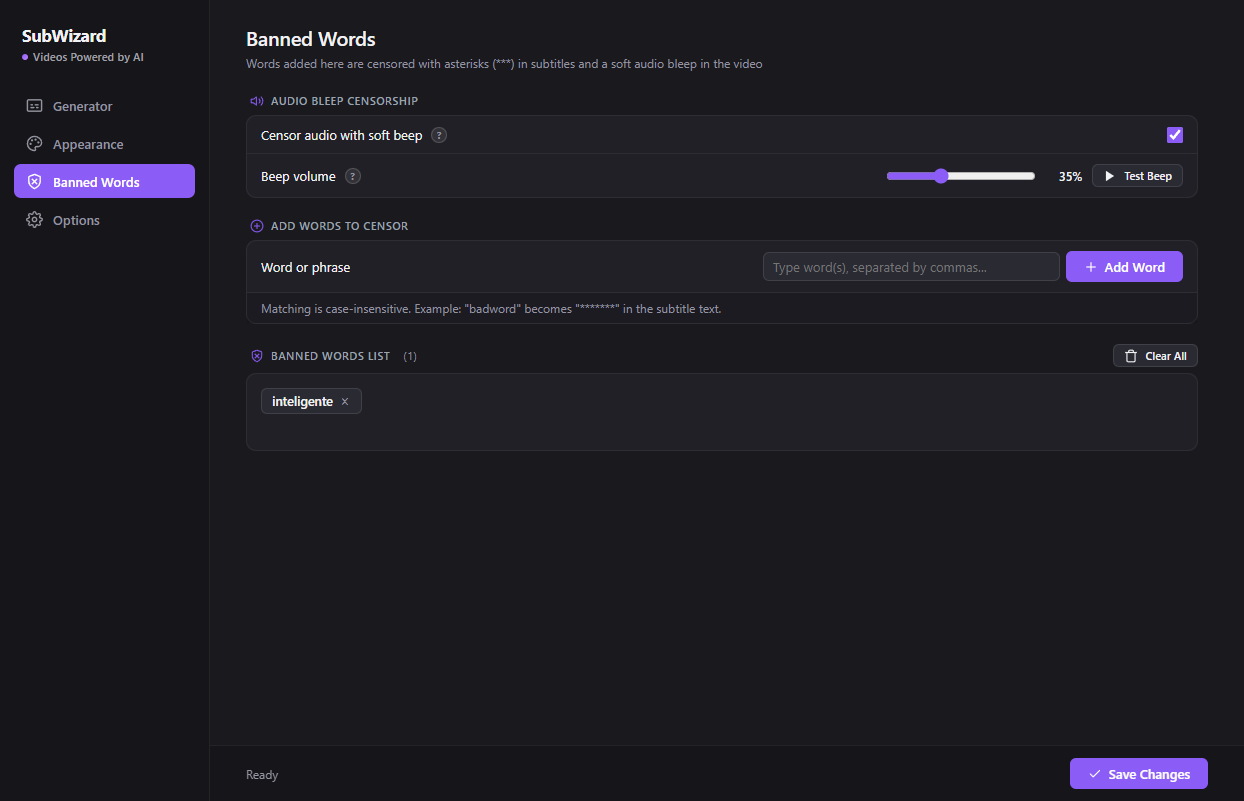
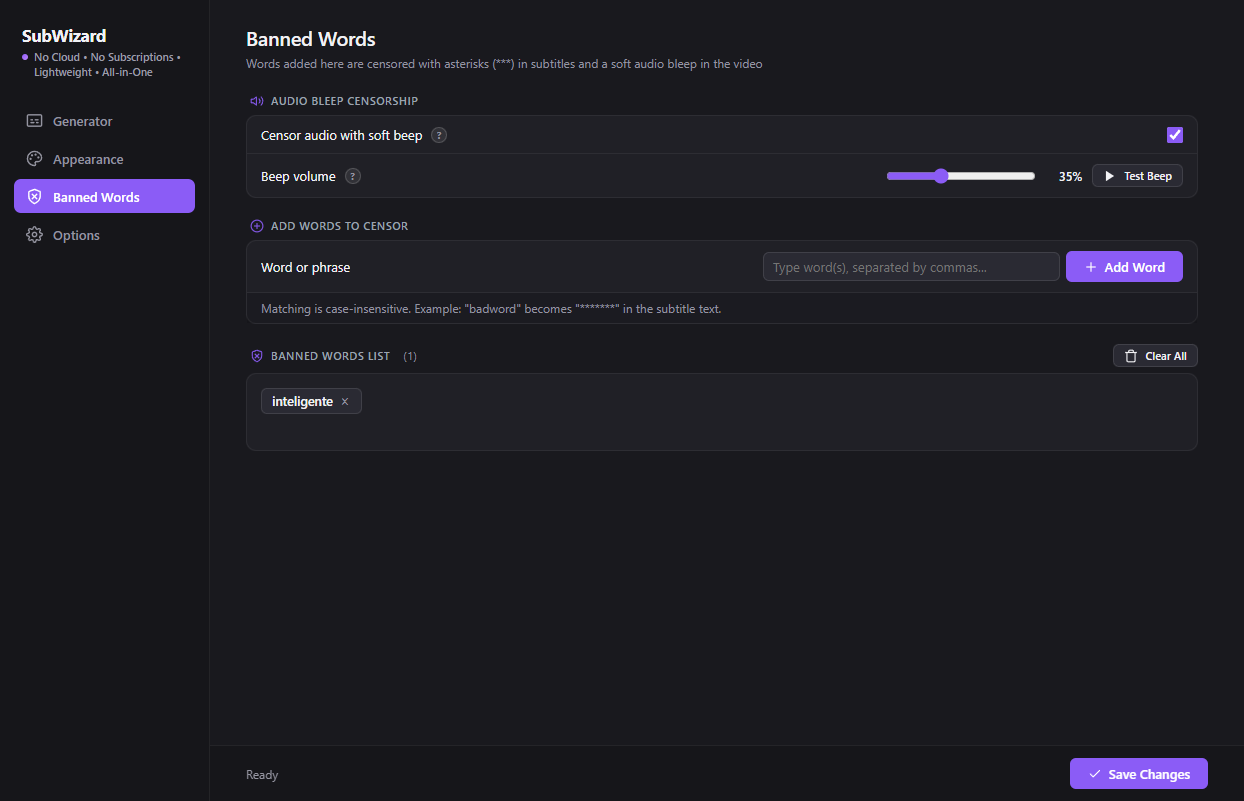
slogan

Changed region(s): [[0.0, 0.1248, 0.1527, 0.3121], [0.0305, 0.0624, 0.1527, 0.0936]]

diff --git a/gui/script.js b/gui/script.js
@@ -4,7 +4,7 @@
 
 const I18N = {
   en: {
-    brand_tag: "Videos Powered by AI",
+    brand_tag: "No Cloud • No Subscriptions • Lightweight • All-in-One",
     nav_generator: "Generator",
     nav_appearance: "Appearance",
     nav_banned: "Banned Words",
@@ -126,7 +126,7 @@ const I18N = {
     opt_subtitle: "General preferences and interface language for SubWizard",
     group_general_options: "General",
     lbl_app_language: "Program language",
-    window_title: "SubWizard — Videos Powered by AI",
+    window_title: "SubWizard — No Cloud • No Subscriptions • Lightweight • All-in-One",
     group_whisper_cache: "Installed Whisper Models",
     btn_open_cache_folder: "Open Cache Folder",
     btn_refresh: "Refresh",
@@ -139,7 +139,7 @@ const I18N = {
   },
 
   es: {
-    brand_tag: "Videos Potenciados por IA",
+    brand_tag: "Sin Nube • Sin Suscripciones • Ligero • Todo en Uno",
     nav_generator: "Generador",
     nav_appearance: "Apariencia",
     nav_banned: "Palabras Baneadas",
@@ -263,7 +263,7 @@ const I18N = {
     opt_subtitle: "Preferencias generales e idioma de la interfaz de SubWizard",
     group_general_options: "General",
     lbl_app_language: "Idioma del programa",
-    window_title: "SubWizard — Videos Potenciados por IA",
+    window_title: "SubWizard — Sin Nube • Sin Suscripciones • Ligero • Todo en Uno",
     group_whisper_cache: "Modelos Whisper Instalados",
     btn_open_cache_folder: "Abrir Carpeta de Caché",
     btn_refresh: "Actualizar",

diff --git a/gui/gui.html b/gui/gui.html
@@ -3,7 +3,7 @@
   <head>
     <meta charset="UTF-8" />
     <meta name="viewport" content="width=device-width, initial-scale=1.0" />
-    <title>SubWizard — Videos Powered by AI</title>
+    <title>SubWizard — No Cloud • No Subscriptions • Lightweight • All-in-One</title>
     <link rel="stylesheet" href="style.css" />
   </head>
   <body>
@@ -14,7 +14,7 @@
       <aside class="sidebar">
         <div class="app-brand">
           <span class="brand-name">SubWizard</span>
-          <span class="brand-tag" data-i18n="brand_tag">Videos powered by AI</span>
+          <span class="brand-tag" data-i18n="brand_tag">No Cloud • No Subscriptions • Lightweight • All-in-One</span>
         </div>
 
         <nav class="nav-list">

diff --git a/gui/style.css b/gui/style.css
@@ -77,14 +77,15 @@ body {
 }
 
 .brand-tag {
-  font-size: 11px;
+  font-size: 10.5px;
   font-weight: 500;
-  color: #a1a1aa;
-  margin-top: 3px;
+  color: #9d9da8;
+  margin-top: 4px;
   letter-spacing: 0.1px;
-  display: inline-flex;
-  align-items: center;
-  gap: 5px;
+  line-height: 1.4;
+  display: flex;
+  align-items: flex-start;
+  gap: 6px;
 }
 
 .brand-tag::before {
@@ -92,7 +93,9 @@ body {
   display: inline-block;
   width: 6px;
   height: 6px;
+  margin-top: 4px;
   border-radius: 50%;
+  flex-shrink: 0;
   background: linear-gradient(135deg, #8b5cf6, #c084fc);
 }
 

diff --git a/subwizard.py b/subwizard.py
@@ -636,7 +636,7 @@ class Api:
 if __name__ == "__main__":
     api = Api()
     webview.create_window(
-        title="SubWizard — Videos Powered by AI",
+        title="SubWizard — No Cloud • No Subscriptions • Lightweight • All-in-One",
         url="gui/gui.html",
         js_api=api,
         width=1260,

diff --git a/README.md b/README.md
@@ -1,4 +1,4 @@
-# 🎬 SubWizard — Videos Powered by AI
+# 🎬 SubWizard — No Cloud • No Subscriptions • Lightweight • All-in-One 🧙♂
 
 <p align="center">
   <img src="assets/screenshot.png" alt="SubWizard" width="850">
